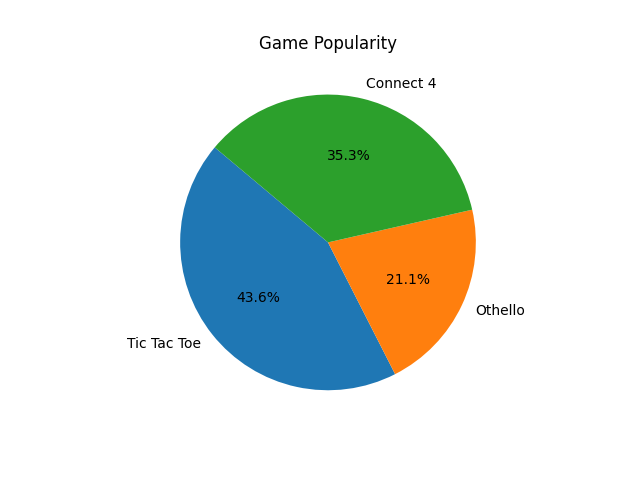
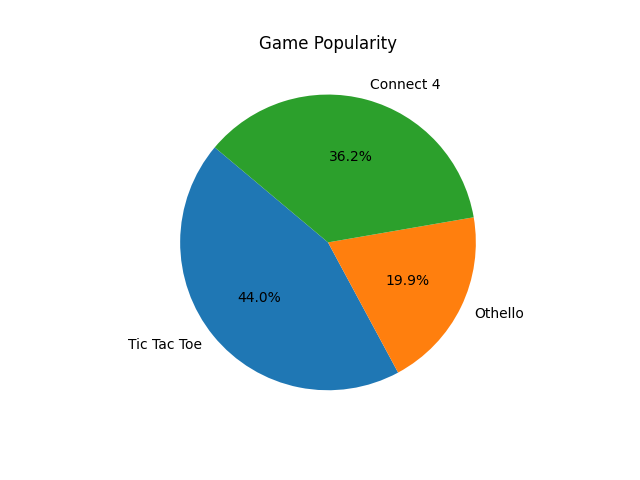
Charts weren't updating in real time, fixed that...

diff --git a/Game_Hub/main_hub.py b/Game_Hub/main_hub.py
@@ -117,72 +117,81 @@ GAME_POPULARITY = os.path.join(graphs_folder, 'game_popularity.png')
 TOP_PLAYERS = os.path.join(graphs_folder, 'top_players.png')
 TOP_PLAYERS_OVERALL = os.path.join(graphs_folder,'top_players_overall.png')
     
-ttt=0
-othello=0
-c4=0
 
-
-with open(HISTORY_PATH, "r") as f:
-    player_stats = {}
-    for line in f:
-        if line.strip():
-            user, g, w, l = line.strip().split(',') 
-            if user not in player_stats:
-                player_stats[user] = {"w": 0, "l": 0}
-            player_stats[user]["w"] += int(w)
-            player_stats[user]["l"] += int(l)
-top_players = sorted(player_stats.items(), key=lambda x: x[1]["w"], reverse=True)[:3]
-players = [p[0] for p in top_players]
-wins = [p[1]["w"] for p in top_players]
-
-# HISTORY_PATH = os.path.join(os.path.dirname(BASE_DIR), 'history.csv')
-with open(HISTORY_PATH, "r") as f:
-    for line in f:
-        if line.strip():
-            user, g, w, l = line.strip().split(',')
-            if g == "tictactoe":
-                ttt += int(w) + int(l)
-            elif g == "othello":
-                othello += int(w) + int(l)
-            elif g == "connect4":
-                c4 += int(w) + int(l)
-
-games = ["Tic Tac Toe", "Othello", "Connect 4"]
-plays = [ttt, othello, c4]
 
 
 def refresh_plots():
     global popularity_pie, overall_bar
-    global ttt, othello, c4
-    global games, plays, players, wins 
-
     
-    plt.pie(plays, labels=games, autopct='%1.1f%%', startangle=140)
-    plt.title("Game Popularity")
-    plt.savefig(GAME_POPULARITY)
+    # RESET COUNTERS EVERY TIME WE REFRESH
+    ttt = 0
+    othello = 0
+    c4 = 0
+    player_stats = {}
 
-    plt.close()
+    # READ THE LATEST DATA FROM THE CSV
+    try:
+        with open(HISTORY_PATH, "r") as f:
+            for line in f:
+                if line.strip():
+                    
+                    user, g, w, l = line.strip().split(',') 
+                    
+                    if user not in player_stats:
+                        player_stats[user] = {"w": 0, "l": 0}
+                    player_stats[user]["w"] += int(w)
+                    player_stats[user]["l"] += int(l)
 
+                    if g == "tictactoe":
+                        ttt += int(w) + int(l)
+                    elif g == "othello":
+                        othello += int(w) + int(l)
+                    elif g == "connect4":
+                        c4 += int(w) + int(l)
+    except FileNotFoundError:
+        pass # IF FILE EMPTY, DRAW EMPTY GRAPH
 
+    # RECALCULATE THE TOP PLAYERS
+    top_players = sorted(player_stats.items(), key=lambda x: x[1]["w"], reverse=True)[:3]
+    players = [p[0] for p in top_players]
+    wins = [p[1]["w"] for p in top_players]
 
     games = ["Tic Tac Toe", "Othello", "Connect 4"]
     plays = [ttt, othello, c4]
+
+
+    # ==========================================
+    # 4. GENERATE THE MATPLOTLIB GRAPHS
+    # ==========================================
     
-    plt.bar(players, wins, color=['green', 'blue', 'red'])
+    # Create a fresh canvas for the Pie Chart
+    plt.figure() 
+    
+    # Only draw the pie chart if games have actually been played
+    if sum(plays) > 0:
+        plt.pie(plays, labels=games, autopct='%1.1f%%', startangle=140)
+    plt.title("Game Popularity")
+    plt.savefig(GAME_POPULARITY)
+    plt.close()
+
+    # Create a fresh canvas for the Bar Chart
+    plt.figure() 
+    if len(players) > 0:
+        plt.bar(players, wins, color=['green', 'blue', 'red'])
     plt.title("Top Players by Total Wins")
     plt.xlabel("Players")
     plt.ylabel("Wins")
-    plt.savefig(TOP_PLAYERS_OVERALL)
-
     plt.savefig(TOP_PLAYERS)
     plt.close()
 
+    # ==========================================
+    # 5. LOAD THE NEW IMAGES INTO PYGAME
+    # ==========================================
     popularity_pie = pygame.image.load(GAME_POPULARITY).convert_alpha()
     overall_bar = pygame.image.load(TOP_PLAYERS).convert_alpha()
 
     popularity_pie = pygame.transform.scale(popularity_pie, (500, 400))
     overall_bar = pygame.transform.scale(overall_bar, (500, 400))
-    pygame.display.flip()
 
 # ==========================
 #      MAIN LOOP AAGE 
@@ -493,7 +502,7 @@ def main_hub(player1,player2):
 
             elif res == "GO_TO_LEADERBOARD":
                 current_state="LEADERBOARD"
-                
+
 
             elif res == "STARTAGAIN":
                 current_state="CONNECT4"
@@ -505,6 +514,7 @@ def main_hub(player1,player2):
                 loser = player2 if res == player1 else player1
                 os.system(f'bash leaderboard.sh update connect4 "{res}" "{loser}" false')
                 refresh_plots()
+                current_state="GAME_MENU"
         
     # =====================================
     #               OTHELLO
@@ -530,10 +540,11 @@ def main_hub(player1,player2):
                 loser = player2 if res == player1 else player1
                 os.system(f'bash leaderboard.sh update othello "{res}" "{loser}" false')
                 refresh_plots()
+                current_state="GAME_MENU"
 
 
     # =====================================
-    #               TIC TAC TOE
+    #            TIC TAC TOE
     # =====================================
 
         elif current_state=="TICTACTOE":
@@ -556,6 +567,7 @@ def main_hub(player1,player2):
                 loser = player2 if res == player1 else player1
                 os.system(f'bash leaderboard.sh update tictactoe "{res}" "{loser}" false')
                 refresh_plots()
+                current_state="GAME_MENU"
 
 
     # ====================================
